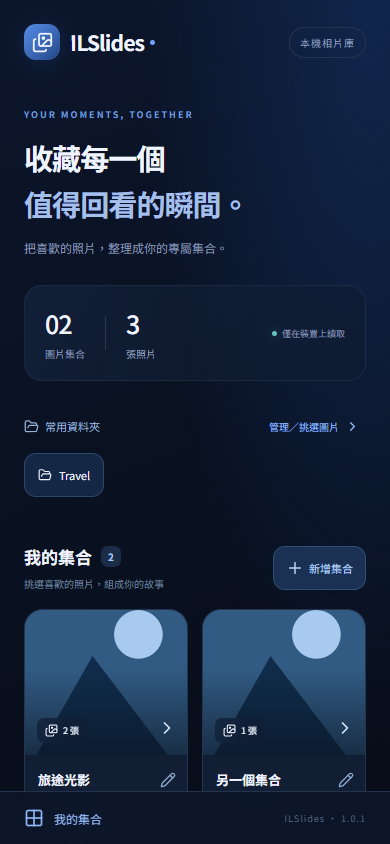
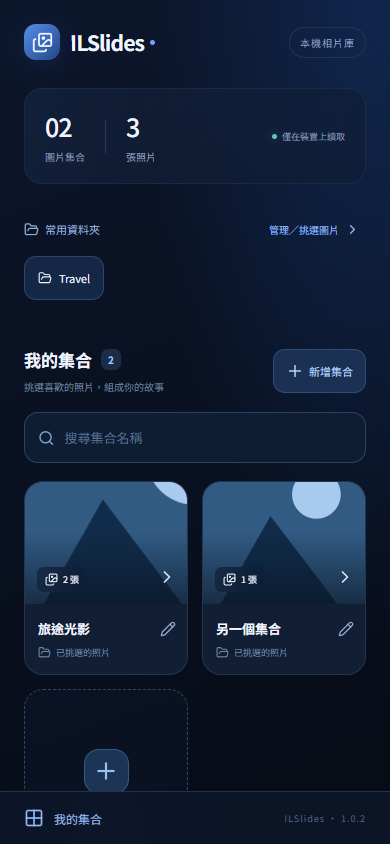
v1.0.2: 新增集合封面裁切、搜尋與固定刪除鍵

diff --git a/src/style.css b/src/style.css
@@ -2,3 +2,4 @@
 :root{font-family:Inter,"Noto Sans TC",-apple-system,BlinkMacSystemFont,"Segoe UI",sans-serif;color:#eff4ff;background:#080e1c;font-synthesis:none;-webkit-font-smoothing:antialiased;color-scheme:dark}*{box-sizing:border-box}body{margin:0;background:radial-gradient(ellipse at 95% 0%,#10264c 0,transparent 43%),linear-gradient(160deg,#0c162b,#070c17 75%);min-height:100dvh}button,input{font:inherit}button{cursor:pointer;color:inherit;border:0;background:none;-webkit-tap-highlight-color:transparent;touch-action:manipulation}button:disabled{opacity:.4;cursor:default}button:focus-visible,a:focus-visible{outline:2px solid #80b6ff;outline-offset:4px}button,a,input{transition:background .2s,border-color .2s,transform .2s}button:active:not(:disabled){transform:scale(.97)}a{color:inherit;text-decoration:none}.library{max-width:1000px;margin:auto;padding:calc(24px + env(safe-area-inset-top)) 24px 100px}.topbar{display:flex;align-items:center;justify-content:space-between}.brand{display:flex;align-items:center;gap:10px;font-size:21px;font-weight:750;letter-spacing:-.8px}.brand-icon{display:grid;place-items:center;width:36px;height:36px;border-radius:12px;background:linear-gradient(135deg,#568eea,#234685);box-shadow:0 4px 22px #2a68d22a}.brand-dot{width:5px;height:5px;background:#6fa2ff;border-radius:50%;margin-left:-4px;align-self:center}.local-badge{color:#8e9fba;font-size:10px;border:1px solid #26344e;padding:7px 10px;border-radius:30px;letter-spacing:1px}.intro{padding:48px 0 27px}.eyebrow{font-size:9px;color:#709bd8;letter-spacing:2px;font-weight:650}h1{font-size:29px;line-height:1.6;letter-spacing:-.9px;font-weight:650;margin:13px 0 10px}h1 span{display:block;color:#a4bfe9}.intro p{font-size:12px;color:#8696b0;margin:0;line-height:1.8}.stats{display:flex;align-items:center;background:linear-gradient(110deg,#17284690,#0e192b70);border:1px solid #25344c90;border-radius:18px;padding:19px 20px;gap:20px}.stats>div:not(.stat-divider){display:flex;flex-direction:column;gap:5px}.stats strong{font-size:25px;font-weight:550;letter-spacing:-1px}.stats span{font-size:10px;color:#8b9bb5}.stat-divider{height:33px;width:1px;background:#2b3b56}.stats .offline{margin-left:auto;font-size:9px;display:flex;align-items:center;gap:5px}.offline>span{background:#64c2be;width:5px;height:5px;border-radius:50%;box-shadow:0 0 9px #64c2be60}.section-heading{display:flex;align-items:center;justify-content:space-between;margin:35px 0 18px}.section-heading h2{font-size:17px;font-weight:600;margin:0;display:flex;align-items:center;gap:9px}.section-heading h2 span{background:#1b2c48;color:#a8c6f5;padding:3px 7px;border-radius:7px;font-size:10px}.section-heading p{font-size:10px;color:#6f829e;margin:7px 0 0}.add-button{display:flex;gap:5px;align-items:center;color:#b9d1f7;font-size:11px;background:#1b3153;border:1px solid #304d74;padding:12px;border-radius:12px;min-height:44px}.empty-card{text-align:center;border:1px solid #22324c80;border-radius:24px;padding:37px 22px 28px;background:linear-gradient(145deg,#10213c80,#0c152780);position:relative;overflow:hidden}.empty-art{height:123px;width:160px;margin:0 auto 23px;position:relative}.art-frame{position:absolute;width:108px;height:91px;border-radius:18px;top:15px;left:28px}.art-frame.back{border:1px solid #36527c;background:#152949;transform:rotate(-13deg) translate(-9px,3px)}.art-frame.front{border:1px solid #5479ae;background:linear-gradient(140deg,#24416a,#132540);transform:rotate(9deg) translate(10px,2px);display:grid;place-items:center;color:#81a7dd;box-shadow:0 15px 50px #0004}.art-spark{position:absolute;top:-17px;right:-13px;color:#94bbff;font-size:27px}.empty-card h2{font-size:17px;font-weight:550;margin:0 0 12px}.empty-card p{color:#8698b7;font-size:12px;line-height:1.9;margin:0 0 25px}.primary{background:linear-gradient(110deg,#5189df,#3567c1);border:1px solid #6495df70;box-shadow:0 6px 23px #1c4c9925;display:flex;align-items:center;justify-content:center;gap:9px;padding:14px 18px;border-radius:13px;font-size:12px;font-weight:600;min-height:48px}.empty-card .primary{margin:auto}.empty-note{display:block;color:#617797;font-size:9px;margin-top:15px}footer{display:flex;justify-content:center;align-items:center;gap:12px;color:#4e6280;font-size:9px;margin-top:32px;letter-spacing:1px}.footer-line{width:24px;height:1px;background:#283954}.bottom-bar{position:fixed;bottom:0;left:0;right:0;background:#0c1528eF;border-top:1px solid #23334d;padding:16px 24px calc(16px + env(safe-area-inset-bottom));backdrop-filter:blur(20px);display:flex;align-items:center;justify-content:space-between;z-index:5}.bottom-bar>span:first-child{display:flex;align-items:center;gap:10px;color:#90b8f9;font-size:12px}.version{font-size:9px;letter-spacing:1px;color:#506685}.collection-grid{display:grid;grid-template-columns:repeat(2,minmax(0,1fr));gap:14px}.collection-card{border:1px solid #243550;border-radius:19px;background:#111e33;overflow:hidden;position:relative}.card-open{padding:0;width:100%;display:block;text-align:left}.cover{height:145px;position:relative;background:linear-gradient(145deg,#284d70,#17293f);overflow:hidden}.cover-1{background:linear-gradient(135deg,#243e6b,#1a263e)}.cover-2{background:linear-gradient(135deg,#264c55,#152835)}.cover img{width:100%;height:100%;object-fit:cover}.cover:after{content:'';position:absolute;inset:40% 0 0;background:linear-gradient(transparent,#091321a0);pointer-events:none}.cover-placeholder{height:100%;display:grid;place-items:center;color:#6e93bf}.photo-count{position:absolute;bottom:12px;left:12px;background:#101d35a0;backdrop-filter:blur(10px);padding:6px 8px;border-radius:7px;font-size:9px;display:flex;align-items:center;gap:5px;z-index:1}.open-indicator{position:absolute;bottom:12px;right:10px;z-index:1;color:#d8e6ff}.card-copy{padding:15px 37px 15px 13px}.card-copy h3{font-size:13px;font-weight:600;margin:0 0 8px;overflow:hidden;white-space:nowrap;text-overflow:ellipsis}.card-copy p{display:flex;align-items:center;gap:5px;color:#7389a7;font-size:9px;margin:0;overflow:hidden;white-space:nowrap;text-overflow:ellipsis}.icon-button{width:44px;height:44px;display:grid;place-items:center;border-radius:13px;background:#1b2b4450;flex-shrink:0}.card-edit{position:absolute;bottom:23px;right:2px;width:34px;height:44px;background:none;color:#8da9ce}.new-card{border:1px dashed #2e4668;border-radius:19px;min-height:220px;display:flex;align-items:center;justify-content:center;flex-direction:column;background:#10203a40;gap:10px}.new-card>span{display:grid;place-items:center;background:#1c3557;border:1px solid #355780;color:#9cbeee;width:45px;height:45px;border-radius:15px;margin-bottom:5px}.new-card strong{font-size:12px;font-weight:550;color:#a7bfdf}.new-card small{font-size:9px;color:#617d9f}.modal-backdrop{position:fixed;inset:0;z-index:30;background:#020610b0;backdrop-filter:blur(9px);display:flex;align-items:end;justify-content:center}.sheet{background:linear-gradient(150deg,#182a48,#0c1628);border:1px solid #324767;border-bottom:0;border-radius:28px 28px 0 0;width:100%;max-width:520px;padding:12px 24px calc(26px + env(safe-area-inset-bottom));max-height:90dvh;overflow:auto;box-shadow:0 -15px 80px #0004}.sheet-handle{width:33px;height:4px;border-radius:3px;background:#3b506e;margin:0 auto 25px}.sheet-heading{display:flex;align-items:center;justify-content:space-between;margin-bottom:28px}.sheet h2{font-size:21px;font-weight:550;margin:9px 0 0}.field-label{display:block;font-size:11px;color:#b0c1db;margin:18px 0 10px}input{width:100%;background:#0a1528;border:1px solid #334866;border-radius:13px;padding:16px;color:#eef5ff;font-size:13px;outline:none}input:focus{border-color:#709bde}input::placeholder{color:#59708f}.folder-select{display:flex;align-items:center;gap:12px;background:#1d304c80;border:1px solid #354a67;width:100%;padding:16px;border-radius:14px;text-align:left}.folder-symbol{color:#91b5ee}.folder-select>span:nth-child(2){flex:1;min-width:0}.folder-select strong{display:block;font-size:12px;font-weight:550;overflow:hidden;text-overflow:ellipsis}.folder-select small{display:block;font-size:10px;color:#7d96b8;margin-top:7px}.sheet-note{font-size:10px;line-height:1.8;color:#768da9;margin:14px 0 24px}.save-button{width:100%;justify-content:space-between}.delete-button{display:flex;align-items:center;justify-content:center;gap:7px;margin:16px auto 0;min-height:44px;color:#cf8e9e;font-size:11px}.delete-confirm{text-align:center;color:#c9a7b0;font-size:12px;margin-top:15px}.delete-confirm button{padding:12px 18px;background:#20314c;border-radius:10px;margin:3px}.delete-confirm .danger{background:#722e45}.toast{position:fixed;top:calc(15px + env(safe-area-inset-top));left:16px;right:16px;max-width:520px;margin:auto;z-index:50;display:flex;align-items:center;gap:12px;background:#293346;border:1px solid #617495;border-radius:14px;padding:15px;font-size:12px;box-shadow:0 8px 35px #0008;line-height:1.6}.toast span{flex:1}.toast button{min-width:32px;min-height:32px}.viewer{position:fixed;inset:0;background:radial-gradient(ellipse at top,#102449,#050a14 75%);overflow:hidden;touch-action:pan-y}.viewer-header{position:absolute;top:0;left:0;right:0;z-index:4;padding:calc(16px + env(safe-area-inset-top)) 16px 20px;display:flex;align-items:center;gap:14px;background:linear-gradient(#06101bea,transparent);transition:opacity .25s}.viewer-header>div{flex:1;min-width:0}.viewer-header h2{font-size:15px;font-weight:550;margin:0 0 6px;white-space:nowrap;overflow:hidden;text-overflow:ellipsis}.viewer-header span{font-size:10px;color:#8ca6cc}.image-stage{position:absolute;inset:90px 12px 170px;display:grid;place-items:center;border-radius:20px;overflow:hidden}.main-photo{position:absolute;width:100%;height:100%;object-fit:contain;border-radius:16px}.dissolve-enter-active,.dissolve-leave-active{transition:opacity .36s ease}.dissolve-enter-from,.dissolve-leave-to{opacity:0}.loading-indicator{position:absolute;bottom:15px;font-size:10px;color:#c2d5f3;background:#102342a0;padding:7px 12px;border-radius:20px}.viewer-bottom{position:absolute;bottom:0;left:0;right:0;padding:16px 25px calc(20px + env(safe-area-inset-bottom));background:linear-gradient(transparent,#070f1eea 30%);transition:opacity .25s;z-index:4}.filename{font-size:11px;text-align:center;color:#92a9c9;margin:0 0 16px;overflow:hidden;text-overflow:ellipsis;white-space:nowrap}.viewer-actions{display:flex;justify-content:center;align-items:center;gap:30px}.viewer-actions .icon-button{background:#20375990;border:1px solid #354b6a;border-radius:50%;width:48px;height:48px}.swipe-hint{text-align:center;color:#c1d3ef;font-size:11px}.swipe-hint span{display:block;font-size:9px;letter-spacing:2px;color:#617b9f;margin-top:8px}.viewer-tools{display:flex;justify-content:center;gap:28px;margin-top:15px}.viewer-tools button{display:flex;align-items:center;gap:6px;color:#7a95ba;font-size:10px;min-height:32px}.hidden{opacity:0;pointer-events:none}.viewer:has(.viewer-header.hidden) .image-stage{inset:0;border-radius:0}.viewer-empty{display:flex;align-items:center;flex-direction:column;color:#7595bf}.viewer-empty h2{font-size:17px;color:#c1d2ee;margin-top:20px}.viewer-empty p{font-size:12px;margin:0 0 24px}@media(min-width:650px){.library{padding:32px 40px 120px}.intro{padding-top:60px}h1{font-size:40px}.collection-grid{grid-template-columns:repeat(3,minmax(0,1fr))}.cover{height:200px}.empty-card{padding:45px}.bottom-bar{padding-left:max(24px,calc((100vw - 920px)/2));padding-right:max(24px,calc((100vw - 920px)/2))}.modal-backdrop{align-items:center}.sheet{border-radius:25px;border-bottom:1px solid #324767}.viewer .image-stage{inset:85px 65px 165px}}@media(prefers-reduced-motion:reduce){*,*:before,*:after{transition:none!important;animation:none!important}}
 
 .source-section{margin-top:25px}.source-heading,.picker-heading{display:flex;align-items:center;justify-content:space-between;gap:12px;color:#97b0d3;font-size:11px}.source-heading>span,.source-heading button{display:flex;align-items:center;gap:6px}.source-heading button,.picker-heading button{color:#92b9f4;min-height:40px;font-size:10px}.folder-chips{display:flex;gap:8px;overflow:auto;padding:7px 0 12px}.folder-chips button{display:flex;align-items:center;gap:7px;flex-shrink:0;background:#142744;border:1px solid #304668;border-radius:12px;padding:11px 13px;font-size:11px;min-height:44px}.folder-chips button.chosen{background:#294d7e;border-color:#7faef2}.collection-sheet{display:flex;flex-direction:column;height:90dvh;max-height:90dvh}.collection-sheet .sheet-heading{margin-bottom:8px}.collection-sheet .sheet-handle{margin-bottom:14px}.editor-scroll{overflow:auto;min-height:0;flex:1;padding-bottom:16px}.collection-sheet .save-button{flex-shrink:0;margin-top:12px}.picker-heading{margin:12px 0 6px}.picker-empty{font-size:12px;color:#7e99bc;text-align:center;padding:24px}.photo-picker{display:grid;grid-template-columns:repeat(3,minmax(0,1fr));gap:8px}.pick-photo{position:relative;aspect-ratio:1;overflow:hidden;border-radius:12px;padding:0;border:2px solid transparent;background:#162940}.pick-photo.selected{border-color:#86b3f5}.photo-thumb{display:grid;place-items:center;width:100%;height:100%;font-size:9px;color:#8aa6cf;overflow:hidden;background:#142942}.photo-thumb img{width:100%;height:100%;object-fit:cover}.pick-check{position:absolute;top:7px;right:7px;width:22px;height:22px;border-radius:50%;border:1px solid #b1c9ed;background:#10223b90;display:grid;place-items:center}.selected .pick-check{background:#4b84d9}.pick-name{position:absolute;bottom:0;left:0;right:0;background:#071226b0;padding:7px 5px;white-space:nowrap;overflow:hidden;text-overflow:ellipsis;font-size:9px}.selected-strip{display:flex;gap:8px;overflow:auto}.selected-strip button{position:relative;width:66px;height:80px;flex-shrink:0;border-radius:10px;overflow:hidden;padding:0}.selected-strip button>span:last-of-type{position:absolute;bottom:0;left:0;right:0;font-size:8px;background:#0a1839aa;overflow:hidden;text-overflow:ellipsis;white-space:nowrap;padding:4px}.selected-strip svg{position:absolute;top:3px;right:3px;background:#07142dcc;border-radius:50%}@media(min-width:650px){.collection-sheet{height:85dvh}}
+.library>.stats{margin-top:28px}.collection-search{display:flex;align-items:center;gap:10px;background:#0f1d33;border:1px solid #2b4262;border-radius:14px;padding:0 13px;margin-bottom:18px;color:#7fa6da}.collection-search input{background:none;border:0;padding:15px 0;min-width:0}.collection-search button{display:grid;place-items:center;min-width:34px;min-height:44px}.search-empty{text-align:center;font-size:12px;color:#8fa9cf;padding:20px}.collection-card .cover{height:auto;aspect-ratio:4/3}.editor-delete{flex-shrink:0;border-top:1px solid #2c405e}.editor-delete .delete-button{width:100%;margin:8px 0 0;background:#5a2b3e70;border:1px solid #824055;border-radius:12px;font-size:12px;min-height:44px}.editor-delete .delete-confirm{margin:6px 0}.editor-delete .delete-confirm p{margin:8px 0}.crop-backdrop{position:fixed;inset:0;z-index:40;background:#030918dd;display:flex;align-items:center;justify-content:center;padding:18px}.crop-sheet{border-radius:22px;border-bottom:1px solid #324767;max-height:95dvh;padding:22px;overflow:auto}.crop-sheet .sheet-heading{margin-bottom:20px}.crop-window{position:relative;aspect-ratio:4/3;background:#081529;border:1px solid #7698c4;border-radius:14px;overflow:hidden}.crop-window canvas{width:100%;height:100%;display:block;touch-action:none;cursor:grab}.crop-window>span{position:absolute;inset:0;display:grid;place-items:center;color:#94acca;font-size:12px}.crop-guides{position:absolute;inset:0;pointer-events:none;background:linear-gradient(90deg,transparent 33%,#ffffff30 33%,#ffffff30 33.3%,transparent 33.3%,transparent 66%,#ffffff30 66%,#ffffff30 66.3%,transparent 66.3%),linear-gradient(transparent 33%,#ffffff30 33%,#ffffff30 33.3%,transparent 33.3%,transparent 66%,#ffffff30 66%,#ffffff30 66.3%,transparent 66.3%)}.zoom-row{display:flex;justify-content:space-between;align-items:center;font-size:12px;color:#a9c1e2}.zoom-row button{display:flex;align-items:center;gap:5px;font-size:10px;min-height:40px}input[type=range]{padding:0;height:40px;accent-color:#75aaff;border:0;background:none}.cover-options{display:flex;gap:9px;overflow:auto;padding:3px 0 13px}.cover-options button{position:relative;flex-shrink:0;width:76px;height:80px;border:2px solid transparent;border-radius:12px;overflow:hidden;padding:0}.cover-options button.chosen{border-color:#92bfff}.cover-options button>span:last-child{position:absolute;bottom:0;left:0;right:0;background:#08172aaa;font-size:8px;white-space:nowrap;overflow:hidden;text-overflow:ellipsis;padding:4px}.crop-sheet .save-button{margin-top:12px}

diff --git a/src/App.vue b/src/App.vue
@@ -2,9 +2,11 @@
 import { computed, ref, watch, onMounted, onUnmounted } from 'vue'
 import { Capacitor } from '@capacitor/core'
 import { App as NativeApp } from '@capacitor/app'
-import { Plus, ArrowLeft, ArrowRight, FolderOpen, Images, X, Pencil, RefreshCw, Trash2, ChevronRight, Expand, Grid2X2, Check } from 'lucide-vue-next'
+import { Plus, ArrowLeft, ArrowRight, FolderOpen, Images, X, Pencil, RefreshCw, Trash2, ChevronRight, Expand, Grid2X2, Check, Search } from 'lucide-vue-next'
 import { Folders, loadCollections, loadFolders, uniquePhotos, sortedPhotos, nextIndex, type Collection, type Photo, type SourceFolder } from './library'
 import PhotoThumb from './PhotoThumb.vue'
+import CoverEditor from './CoverEditor.vue'
+import { drawCover, type CoverSettings } from './cover'
 import { version } from '../package.json'
 const folders = ref(loadFolders())
 const collections = ref(loadCollections())
@@ -14,6 +16,10 @@ const index = ref(0)
 const displayed = ref('')
 const displayedName = ref('')
 const covers = ref<Record<string,string>>({})
+const query = ref('')
+const filteredCollections = computed(() => collections.value.filter(c => c.name.toLocaleLowerCase().includes(query.value.trim().toLocaleLowerCase())))
+const draftCover = ref<CoverSettings>()
+const coverEditor = ref(false)
 const busy = ref(false)
 const imageBusy = ref(false)
 const error = ref('')
@@ -68,6 +74,13 @@ async function show() {
 watch(index, show)
 async function cover(c:Collection) {
   delete covers.value[c.id]
+  if(c.cover && c.photos.some(p=>p.uri===c.cover?.uri)) {
+    try {
+      const data=await image(c.cover.uri,1600), img=new Image(); img.src=data; await img.decode()
+      const canvas=document.createElement('canvas'); drawCover(canvas,img,c.cover)
+      covers.value[c.id]=canvas.toDataURL('image/webp',.88); return
+    } catch { /* Fall back if the chosen source file is unavailable. */ }
+  }
   for(const p of c.photos) {
     try { covers.value[c.id]=await image(p.uri,600); return } catch { /* Try the next selected image. */ }
   }
@@ -86,6 +99,7 @@ function start(e:TouchEvent) { touchX=e.changedTouches[0]!.clientX; touchY=e.cha
 function end(e:TouchEvent) { const dx=e.changedTouches[0]!.clientX-touchX,dy=e.changedTouches[0]!.clientY-touchY; if(Math.abs(dx)>45 && Math.abs(dx)>Math.abs(dy)*1.3) step(dx<0?1:-1) }
 function edit(c?:Collection, folder?:SourceFolder) {
   editId.value=c?.id || null; name.value=c?.name || ''; draftPhotos.value=c ? [...c.photos] : []
+  draftCover.value=c?.cover ? {...c.cover} : undefined; coverEditor.value=false
   selectedFolder.value=null; folderPhotos.value=[]; modal.value=true; error.value=''
   const initial=folder || folders.value[0]
   if(initial) void browseFolder(initial)
@@ -113,7 +127,7 @@ function toggle(p:Photo) { draftPhotos.value=selected(p.uri) ? draftPhotos.value
 function selectAll() { draftPhotos.value=uniquePhotos([...draftPhotos.value,...folderPhotos.value]) }
 async function save() {
   if(!name.value.trim() || !draftPhotos.value.length || busy.value) return
-  const c:Collection={id:editId.value || crypto.randomUUID(),name:name.value.trim(),photos:uniquePhotos(draftPhotos.value)}
+  const c:Collection={id:editId.value || crypto.randomUUID(),name:name.value.trim(),photos:uniquePhotos(draftPhotos.value),...(draftCover.value && selected(draftCover.value.uri) ? {cover:{...draftCover.value}} : {})}
   const pos=collections.value.findIndex(v=>v.id===c.id)
   if(pos<0) collections.value.push(c); else collections.value[pos]=c
   modal.value=false; ++folderRequest
@@ -129,11 +143,11 @@ function remove() {
   modal.value=false; deleting.value=false
 }
 watch(modal, () => { deleting.value=false; if(!modal.value) { ++folderRequest; folderBusy.value=false } })
-function keyboard(e:KeyboardEvent) { if(modal.value) { if(e.key==='Escape') modal.value=false; return }; if(active.value) { if(e.key==='ArrowRight') step(1); if(e.key==='ArrowLeft') step(-1); if(e.key==='Escape') close() } }
+function keyboard(e:KeyboardEvent) { if(coverEditor.value) { if(e.key==='Escape') coverEditor.value=false; return }; if(modal.value) { if(e.key==='Escape') modal.value=false; return }; if(active.value) { if(e.key==='ArrowRight') step(1); if(e.key==='ArrowLeft') step(-1); if(e.key==='Escape') close() } }
 onMounted(async () => {
   window.addEventListener('keydown',keyboard)
   if(Capacitor.isNativePlatform()) {
-    const listener=await NativeApp.addListener('backButton', () => { if(modal.value) modal.value=false; else if(active.value) close(); else void NativeApp.exitApp() })
+    const listener=await NativeApp.addListener('backButton', () => { if(coverEditor.value) coverEditor.value=false; else if(modal.value) modal.value=false; else if(active.value) close(); else void NativeApp.exitApp() })
     removeBack=()=>void listener.remove()
         for(const c of collections.value) {
       if(c.legacyTree) {
@@ -150,18 +164,19 @@ onUnmounted(() => { window.removeEventListener('keydown',keyboard); removeBack?.
 <template>
   <main v-if="!active" class="library">
     <header class="topbar"><a class="brand" href="#" aria-label="ILSlides 首頁"><span class="brand-icon"><Images :size="21" /></span>ILSlides<span class="brand-dot"></span></a><span class="local-badge">本機相片庫</span></header>
-    <section class="intro"><div class="eyebrow">YOUR MOMENTS, TOGETHER</div><h1>收藏每一個<span>值得回看的瞬間。</span></h1><p>把喜歡的照片，整理成你的專屬集合。</p></section>
     <section class="stats"><div><strong>{{ collections.length.toString().padStart(2,'0') }}</strong><span>圖片集合</span></div><div class="stat-divider"></div><div><strong>{{ total.toLocaleString() }}</strong><span>張照片</span></div><span class="offline"><span></span>僅在裝置上讀取</span></section>
     <section class="source-section"><div class="source-heading"><span><FolderOpen :size="15" />常用資料夾</span><button @click="edit()">管理／挑選圖片<ChevronRight :size="15" /></button></div><div class="folder-chips"><button v-for="f in folders" :key="f.uri" @click="edit(undefined,f)"><FolderOpen :size="14" />{{ f.name }}</button><button v-if="!folders.length" @click="edit()"><Plus :size="14" />記住圖片資料夾</button></div></section>
     <div class="section-heading"><div><h2>我的集合 <span>{{ collections.length }}</span></h2><p>挑選喜歡的照片，組成你的故事</p></div><button class="add-button" @click="edit()"><Plus :size="18" />新增集合</button></div>
+    <div class="collection-search"><Search :size="18" /><input v-model="query" type="search" aria-label="搜尋集合" placeholder="搜尋集合名稱" /><button v-if="query" @click="query=''" aria-label="清除搜尋"><X :size="18" /></button></div>
+    <p v-if="collections.length && !filteredCollections.length" class="search-empty">找不到符合「{{ query }}」的集合。</p>
     <section v-if="collections.length" class="collection-grid">
-      <article v-for="(c,i) in collections" :key="c.id" class="collection-card">
+      <article v-for="(c,i) in filteredCollections" :key="c.id" class="collection-card">
         <button class="card-open" @click="open(c)" :disabled="busy" :aria-label="`開啟 ${c.name}`"><div class="cover" :class="`cover-${i%3}`"><img v-if="covers[c.id]" :src="covers[c.id]" alt="" /><div v-else class="cover-placeholder"><Images :size="38" :stroke-width="1" /></div><span class="photo-count"><Images :size="13" />{{ c.photos.length }} 張</span><span class="open-indicator"><ChevronRight :size="20" /></span></div><div class="card-copy"><h3>{{ c.name }}</h3><p><FolderOpen :size="13" />已挑選的照片</p></div></button>
         <button class="card-edit icon-button" @click="edit(c)" :aria-label="`編輯 ${c.name}`"><Pencil :size="16" /></button>
       </article>
       <button class="new-card" @click="edit()"><span><Plus :size="26" /></span><strong>新的故事</strong><small>新增你的圖片集合</small></button>
     </section>
-    <section v-else class="empty-card"><div class="empty-art"><div class="art-frame back"></div><div class="art-frame front"><Images :size="48" :stroke-width="1" /><span class="art-spark">✦</span></div></div><h2>你的回憶，從這裡開始</h2><p>從記住的資料夾挑選多張照片，<br />建立第一個專屬集合。</p><button class="primary" @click="edit()"><FolderOpen :size="18" />挑選圖片，建立集合</button><span class="empty-note">照片保留在原目錄，無需上傳</span></section>
+    <section v-if="!collections.length" class="empty-card"><div class="empty-art"><div class="art-frame back"></div><div class="art-frame front"><Images :size="48" :stroke-width="1" /><span class="art-spark">✦</span></div></div><h2>你的回憶，從這裡開始</h2><p>從記住的資料夾挑選多張照片，<br />建立第一個專屬集合。</p><button class="primary" @click="edit()"><FolderOpen :size="18" />挑選圖片，建立集合</button><span class="empty-note">照片保留在原目錄，無需上傳</span></section>
     <footer><span class="footer-line"></span>留一點空間，給美好的日常<span class="footer-line"></span></footer>
     <div class="bottom-bar"><span><Grid2X2 :size="20" />我的集合</span><span class="version">ILSlides · {{ version }}</span></div>
   </main>
@@ -176,6 +191,7 @@ onUnmounted(() => { window.removeEventListener('keydown',keyboard); removeBack?.
       <div class="sheet-handle"></div><div class="sheet-heading"><div><span class="eyebrow">CURATE YOUR COLLECTION</span><h2 id="sheet-title">{{ editId ? '編輯集合' : '建立新的集合' }}</h2></div><button class="icon-button" @click="modal=false" aria-label="關閉"><X :size="21" /></button></div>
       <div class="editor-scroll">
         <label class="field-label" for="collection-name">集合名稱</label><input id="collection-name" v-model="name" maxlength="60" placeholder="例如：旅行片刻、日常光影" />
+        <label class="field-label">集合封面</label><button class="folder-select" :disabled="!draftPhotos.length" @click="coverEditor=true"><Images :size="23" /><span><strong>{{ draftCover && selected(draftCover.uri) ? '調整已選封面' : '選擇封面與調整視窗' }}</strong><small>從集合圖片挑選，拖曳及縮放封面範圍</small></span><ChevronRight :size="18" /></button>
         <label class="field-label">常用資料夾</label>
         <div class="folder-chips"><button v-for="f in folders" :key="f.uri" :class="{chosen:selectedFolder?.uri===f.uri}" @click="browseFolder(f)"><FolderOpen :size="14" />{{ f.name }}</button></div>
         <button class="folder-select" @click="pick" :disabled="folderBusy"><span class="folder-symbol"><FolderOpen :size="23" /></span><span><strong>選擇／重新授權資料夾</strong><small>記住此位置，下次可直接開啟挑圖</small></span><Plus :size="18" /></button>
@@ -184,10 +200,11 @@ onUnmounted(() => { window.removeEventListener('keydown',keyboard); removeBack?.
         <p v-if="folderBusy" class="picker-empty">正在讀取資料夾…</p><p v-else-if="selectedFolder && !folderPhotos.length" class="picker-empty">沒有可讀取的圖片；可選擇其他資料夾。</p>
         <div class="photo-picker"><button v-for="p in folderPhotos" :key="p.uri" class="pick-photo" :class="{selected:selected(p.uri)}" @click="toggle(p)" :aria-label="`選取 ${p.name}`" :aria-pressed="selected(p.uri)"><PhotoThumb :uri="p.uri" :name="p.name" /><span class="pick-check"><Check v-if="selected(p.uri)" :size="15" /></span><span class="pick-name">{{ p.name }}</span></button></div>
         <p class="sheet-note">可切換資料夾繼續挑選；集合只保留你勾選的圖片。<br />資料夾新增圖片不會自動加入集合，原始檔案不會修改。</p>
-        <template v-if="editId"><button v-if="!deleting" class="delete-button" @click="deleting=true"><Trash2 :size="16" />移除集合</button><div v-else class="delete-confirm"><p>確定移除集合？原始圖片會保留。</p><button @click="deleting=false">取消</button><button class="danger" @click="remove">確定移除</button></div></template>
+
       </div>
+      <div v-if="editId" class="editor-delete"><button v-if="!deleting" class="delete-button" @click="deleting=true"><Trash2 :size="16" />刪除集合</button><div v-else class="delete-confirm"><p>確定刪除此集合？原始圖片會保留。</p><button @click="deleting=false">取消刪除</button><button class="danger" @click="remove">確定刪除</button></div></div>
       <button class="primary save-button" :disabled="!name.trim() || !draftPhotos.length || busy" @click="save">{{ editId ? '儲存變更' : '建立集合' }} · {{ draftPhotos.length }} 張<ArrowRight :size="18" /></button>
     </section>
   </div>
+  <CoverEditor v-if="coverEditor && draftPhotos.length" :photos="draftPhotos" :initial="draftCover && selected(draftCover.uri) ? draftCover : undefined" @close="coverEditor=false" @save="draftCover=$event; coverEditor=false" />
 </template>
-

diff --git a/src/CoverEditor.vue b/src/CoverEditor.vue
@@ -1,0 +1,36 @@
+<script setup lang="ts">
+import { ref, watch, onMounted } from 'vue'
+import { X, RotateCcw } from 'lucide-vue-next'
+import { Folders, type Photo } from './library'
+import { drawCover, cropRect, type CoverSettings } from './cover'
+import PhotoThumb from './PhotoThumb.vue'
+const props=defineProps<{photos:Photo[];initial?:CoverSettings}>()
+const emit=defineEmits<{close:[];save:[CoverSettings]}>()
+const settings=ref<CoverSettings>({...props.initial || {uri:props.photos[0]!.uri,x:.5,y:.5,zoom:1}})
+const canvas=ref<HTMLCanvasElement>(),ready=ref(false),error=ref('')
+let loaded:HTMLImageElement | null=null,request=0,lastX=0,lastY=0,dragging=false
+async function load(uri:string) {
+ const token=++request; ready.value=false; error.value=''
+ try {
+  const result=await Folders.image({uri,size:1600})
+  const img=new Image(); img.src=result.data
+  await img.decode()
+  if(token!==request) return
+  loaded=img; ready.value=true; draw()
+ } catch { if(token===request) error.value='此圖片無法讀取，請改選其他圖片。' }
+}
+function draw() { if(canvas.value && loaded && ready.value) drawCover(canvas.value,loaded,settings.value) }
+function choose(uri:string) { settings.value={uri,x:.5,y:.5,zoom:1}; void load(uri) }
+function down(e:PointerEvent) { if(!ready.value) return; dragging=true;lastX=e.clientX;lastY=e.clientY;canvas.value?.setPointerCapture(e.pointerId) }
+function move(e:PointerEvent) {
+ if(!dragging || !loaded || !canvas.value) return
+ const rect=canvas.value.getBoundingClientRect(),crop=cropRect(loaded.naturalWidth,loaded.naturalHeight,settings.value)
+ const overflowX=rect.width*(loaded.naturalWidth/crop.width-1),overflowY=rect.height*(loaded.naturalHeight/crop.height-1)
+ if(overflowX>0) settings.value.x=Math.max(0,Math.min(1,settings.value.x-(e.clientX-lastX)/overflowX))
+ if(overflowY>0) settings.value.y=Math.max(0,Math.min(1,settings.value.y-(e.clientY-lastY)/overflowY))
+ lastX=e.clientX;lastY=e.clientY
+}
+watch(settings,draw,{deep:true})
+onMounted(()=>void load(settings.value.uri))
+</script>
+<template><div class="crop-backdrop"><section class="sheet crop-sheet" role="dialog" aria-modal="true" aria-labelledby="crop-title"><div class="sheet-heading"><div><span class="eyebrow">COLLECTION COVER</span><h2 id="crop-title">調整集合封面</h2></div><button class="icon-button" @click="emit('close')" aria-label="取消封面調整"><X :size="20" /></button></div><div class="crop-window"><canvas ref="canvas" aria-label="封面裁切視窗" @pointerdown="down" @pointermove="move" @pointerup="dragging=false" @pointercancel="dragging=false" /><span v-if="!ready">{{ error || '讀取圖片中…' }}</span><div class="crop-guides"></div></div><p class="sheet-note">拖曳圖片調整位置，使用縮放調整封面範圍。</p><div class="zoom-row"><label for="cover-zoom">縮放 {{ Number(settings.zoom).toFixed(1) }}×</label><button @click="settings.x=.5;settings.y=.5;settings.zoom=1"><RotateCcw :size="14" />重設位置</button></div><input id="cover-zoom" v-model.number="settings.zoom" type="range" min="1" max="3" step="0.05" :disabled="!ready" /><label class="field-label">從集合中選擇封面</label><div class="cover-options"><button v-for="p in photos" :key="p.uri" :class="{chosen:settings.uri===p.uri}" :aria-label="`以 ${p.name} 作為封面`" :aria-pressed="settings.uri===p.uri" @click="choose(p.uri)"><PhotoThumb :uri="p.uri" :name="p.name" /><span>{{ p.name }}</span></button></div><button class="primary save-button" :disabled="!ready" @click="emit('save',{...settings})">使用此封面</button></section></div></template>

diff --git a/src/library.ts b/src/library.ts
@@ -1,7 +1,8 @@
+import type { CoverSettings } from './cover'
 import { registerPlugin } from '@capacitor/core'
 export interface Photo { uri: string; name: string }
 export interface SourceFolder { uri: string; name: string }
-export interface Collection { id: string; name: string; photos: Photo[]; legacyTree?: string }
+export interface Collection { id: string; name: string; photos: Photo[]; legacyTree?: string; cover?:CoverSettings }
 export const Folders = registerPlugin<{
   pick(): Promise<{ uri: string; name: string; cancelled?: boolean }>
   list(options: { tree: string }): Promise<{ images: Photo[] }>
@@ -22,7 +23,7 @@ function read(key: string): unknown[] {
 function validPhoto(p: any): p is Photo { return p && typeof p.uri === 'string' && typeof p.name === 'string' }
 export function loadCollections(): Collection[] {
   return read('ilslides.collections').filter((c:any) => c && typeof c.id==='string' && typeof c.name==='string').map((c:any) => ({
-    id:c.id, name:c.name, photos:Array.isArray(c.photos) ? uniquePhotos(c.photos.filter(validPhoto)) : [],
+    id:c.id, name:c.name, ...((c.cover && typeof c.cover.uri === 'string' && [c.cover.x,c.cover.y,c.cover.zoom].every(Number.isFinite) && Array.isArray(c.photos) && c.photos.some((p:any)=>p?.uri===c.cover.uri)) ? {cover:c.cover} : {}), photos:Array.isArray(c.photos) ? uniquePhotos(c.photos.filter(validPhoto)) : [],
     ...((c.legacyTree || (!Array.isArray(c.photos) && c.tree)) ? {legacyTree:c.legacyTree || c.tree} : {})
   }))
 }

diff --git a/src/library.test.ts b/src/library.test.ts
@@ -27,6 +27,17 @@ describe('集合瀏覽', () => {
   expect(loadCollections()).toEqual([{id:'old',name:'舊回憶',photos:[],legacyTree:'old-uri'}])
   expect(loadFolders()).toEqual([{uri:'old-uri',name:'Travel'}])
  })
+ it('保留有效封面設定，來源移出集合時移除封面',()=>{
+  const cover={uri:'a',x:.2,y:.7,zoom:2}
+  storage.set('ilslides.collections',JSON.stringify([{id:'1',name:'收藏',photos:[{uri:'a',name:'a'}],cover}]))
+  expect(loadCollections()[0]!.cover).toEqual(cover)
+  storage.set('ilslides.collections',JSON.stringify([{id:'1',name:'收藏',photos:[],cover}]))
+  expect(loadCollections()[0]!.cover).toBeUndefined()
+ })
+ it('無效封面數值與非陣列資料不會使載入崩潰',()=>{
+  storage.set('ilslides.collections',JSON.stringify([{id:'1',name:'收藏',photos:{},cover:{uri:'a',x:0,y:0,zoom:1}}]))
+  expect(loadCollections()[0]!.cover).toBeUndefined()
+ })
  it('損壞資料與無效圖片不會使載入崩潰', () => {
   storage.set('ilslides.collections','broken'); expect(loadCollections()).toEqual([])
   storage.set('ilslides.collections',JSON.stringify([null,{id:'1',name:'收藏',photos:[null,{uri:'ok',name:'有效'}]}]))

diff --git a/src/cover.ts b/src/cover.ts
@@ -1,0 +1,12 @@
+export interface CoverSettings { uri:string; x:number; y:number; zoom:number }
+export function cropRect(width:number,height:number,cover:Pick<CoverSettings,'x'|'y'|'zoom'>) {
+  const zoom=Math.max(1,Math.min(3,cover.zoom))
+  const w=Math.min(width,height*4/3)/zoom, h=w*3/4
+  return {x:(width-w)*Math.max(0,Math.min(1,cover.x)),y:(height-h)*Math.max(0,Math.min(1,cover.y)),width:w,height:h}
+}
+export function drawCover(canvas:HTMLCanvasElement,img:HTMLImageElement,cover:CoverSettings) {
+  const r=cropRect(img.naturalWidth,img.naturalHeight,cover)
+  canvas.width=600; canvas.height=450
+  const ctx=canvas.getContext('2d')!
+  ctx.drawImage(img,r.x,r.y,r.width,r.height,0,0,600,450)
+}

diff --git a/src/cover.test.ts b/src/cover.test.ts
@@ -1,0 +1,16 @@
+import { describe,it,expect } from 'vitest'
+import { cropRect } from './cover'
+describe('封面裁切',()=>{
+ it('直式圖片置中裁成 4:3',()=>{
+  expect(cropRect(600,800,{x:.5,y:.5,zoom:1})).toEqual({x:0,y:175,width:600,height:450})
+ })
+ it('縮放和拖曳不超出來源且維持比例',()=>{
+  const crop=cropRect(1600,900,{x:1,y:0,zoom:2})
+  expect(crop).toEqual({x:1000,y:0,width:600,height:450})
+  expect(crop.x+crop.width).toBeLessThanOrEqual(1600)
+ })
+ it('限制縮放與位置的上下限',()=>{
+  expect(cropRect(600,800,{x:-1,y:2,zoom:0})).toEqual({x:0,y:350,width:600,height:450})
+  expect(cropRect(600,800,{x:.5,y:.5,zoom:10}).width).toBe(200)
+ })
+})

diff --git a/docs/release-v1.0.2.md b/docs/release-v1.0.2.md
@@ -1,0 +1,12 @@
+ILSlides v1.0.2
+
+- 集合封面：從集合選一張圖片，固定 4:3 視窗中拖曳位置、縮放 1～3 倍、重設位置；確認後隨集合儲存，重開保留。
+- 移除首頁四行介紹文字。
+- 編輯介面底部固定「刪除集合」鍵，確認後刪除集合，保留原始圖片與常用資料夾。
+- 新增首頁集合名稱搜尋、清除搜尋與無結果提示。
+
+下載 ILSlides1-0-2.apk，可覆蓋安裝；Android 9 以上，Android versionCode 3，沿用上一版 debug 簽章。
+
+驗證：11 項單元測試、手機 UI 封面選取／拖曳／縮放／取消／保存、搜尋／刪除及既有流程測試、Android 建置及 lint、APK 簽章檢查通過。UI 使用模擬 native bridge，未連接 Android 實機。
+
+附 SHA256SUMS.txt 校驗檔。

diff --git a/AGENTS.md b/AGENTS.md
@@ -11,6 +11,14 @@
 
 ## 目前開發進度
 
+### v1.0.2（2026-10-12）
+
+- 從集合圖片選擇封面；固定 4:3 裁切視窗，拖曳調整位置、縮放 1～3 倍及重設。
+- 封面保存圖片 URI 與裁切參數，重開後重建預覽，不修改原圖。
+- 移除首頁四行介紹文字，新增依集合名稱即時搜尋、清除與無結果提示。
+- 編輯集合底部固定刪除鍵，確認後刪除此集合、保留原始圖片。
+- 11 項單元測試、手機 UI 封面／搜尋／刪除與既有流程、Android 建置及 lint 通過；未連接 Android 實機。
+
 ### v1.0.1（2026-10-12）
 
 - 將常用資料夾與圖片集合分開保存，資料夾是快速找圖捷徑。
